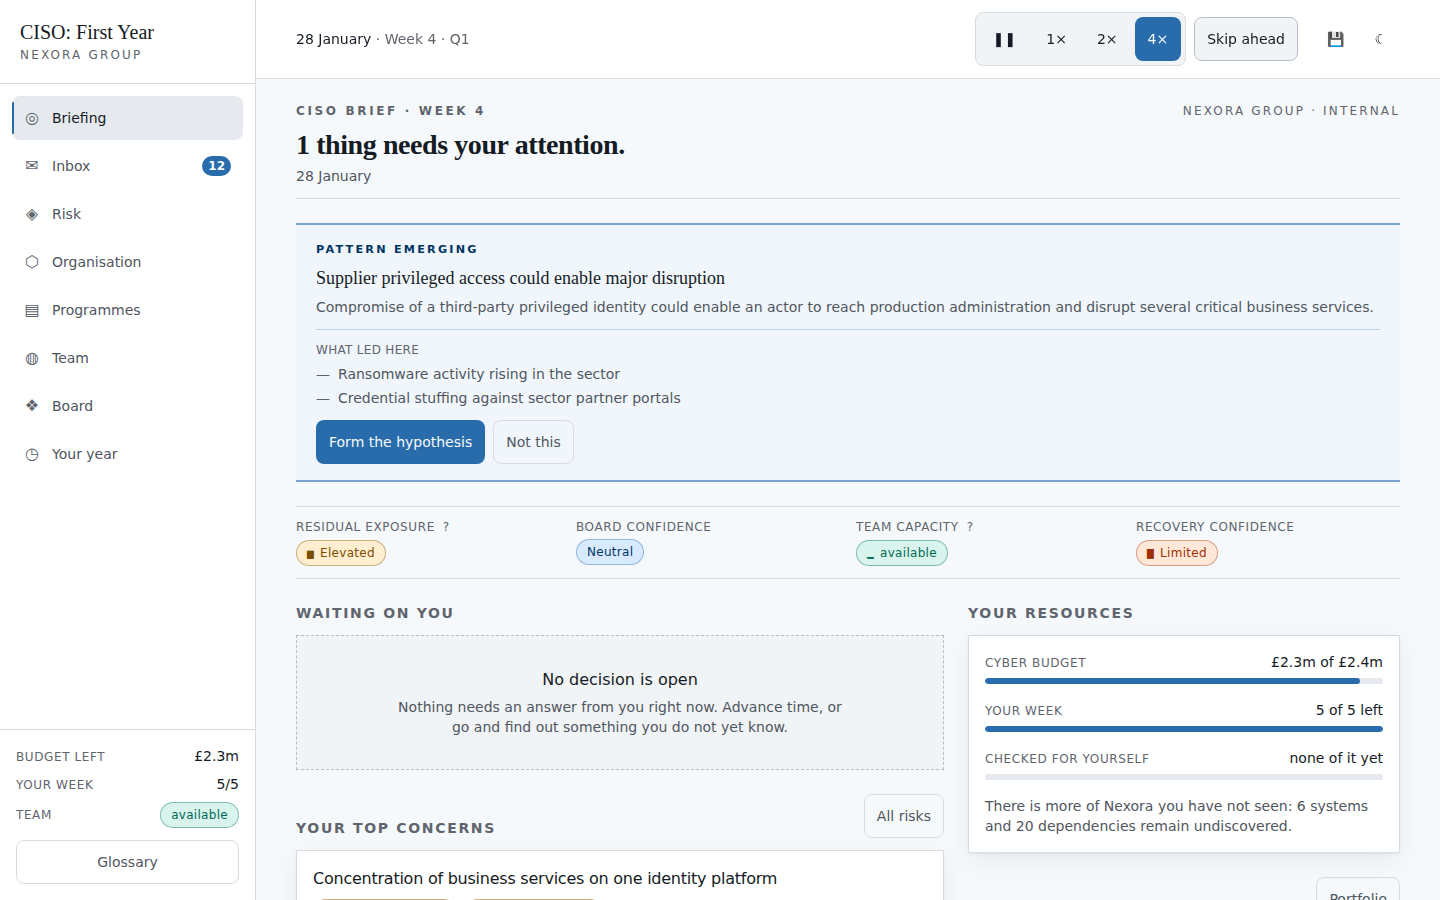
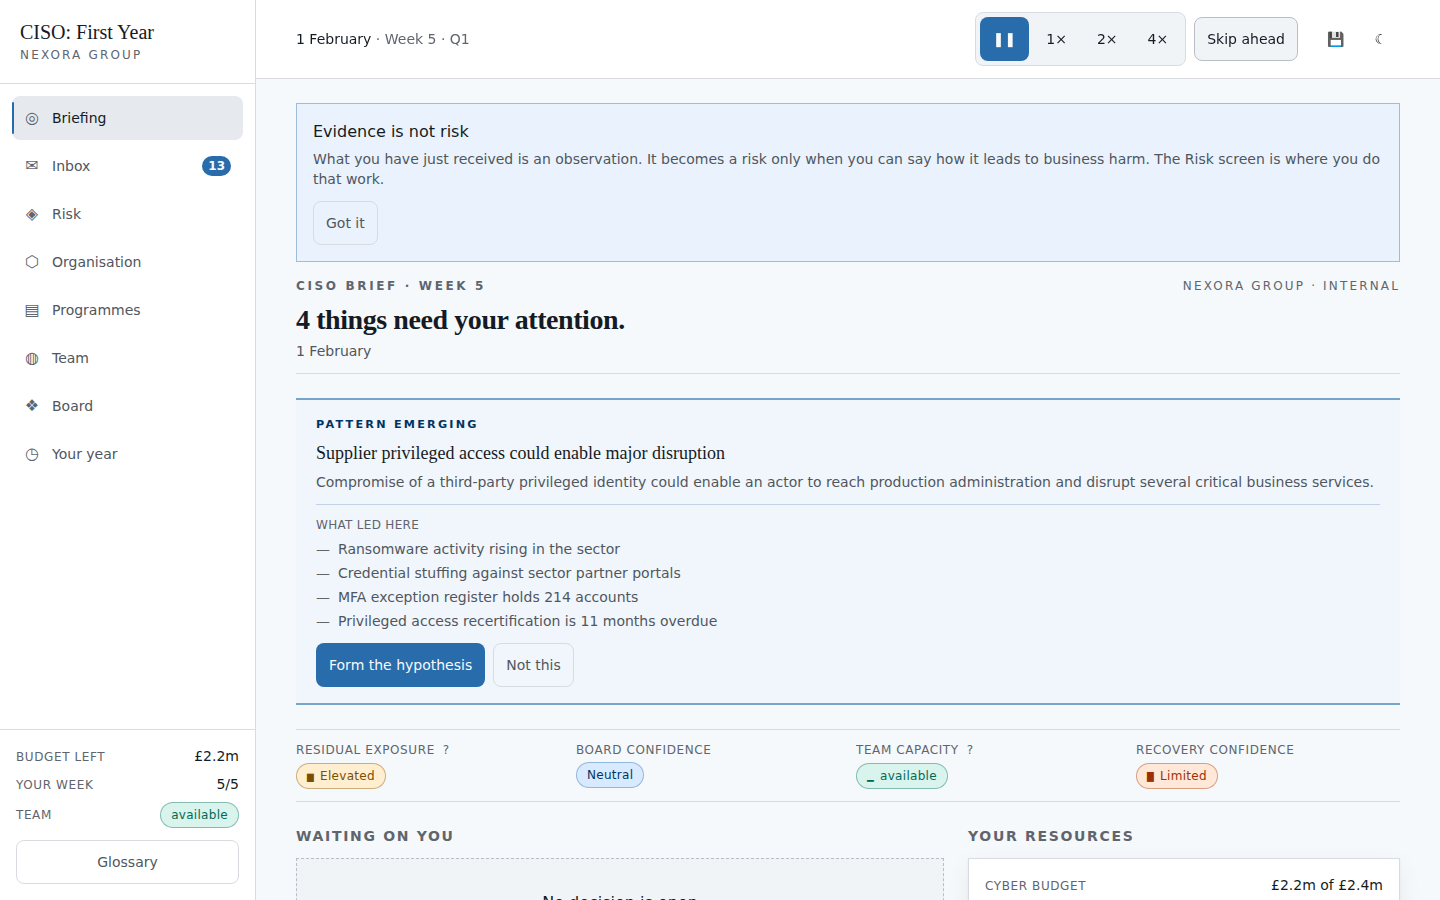
Photograph the board paper from an engine-prepared save
The guide's board-paper shot drove a quarter of play through the interface
and ran out of polls before day 91. A tsx script now plays a light, engaged
year in the engine to a named stopping point and prints the save; the browser
test loads it from the Continue list. 07-pattern and 08-board regenerated;
the board pack now shows raised risks rather than an empty paper.

Claude-Session: https://claude.ai/code/session_01QQ5khq6U7faXndHvyfrAxx

diff --git a/tests/e2e/guide-shots.spec.ts b/tests/e2e/guide-shots.spec.ts
@@ -1,5 +1,6 @@
 import { expect, test, type Page } from '@playwright/test'
 import { goTo, startCampaign } from './helpers'
+import { openPreparedCampaign, prepareCampaign } from './prepared'
 
 /**
  * The pictures in docs/PLAYER_GUIDE.md.
@@ -131,75 +132,34 @@ test.describe('player guide', () => {
   })
 
   /**
-   * The slow one. Reaching the first board paper means covering a quarter
-   * through the interface, and neither stepping event by event nor running the
-   * in-game clock has proved quick or reliable about it. If this fails, the
-   * committed picture is still current — re-run it alone, or leave it.
+   * A pattern offer and the first board paper, from campaigns the engine
+   * prepared. This used to drive a quarter of play through the interface at
+   * 4x and poll for the board paper; measured, it ran out of polls before the
+   * clock reached day 91 on more runs than not, even at 2,200 polls and
+   * fifteen minutes, while the engine reaches the same day instantly. The
+   * screens photographed are still the real ones, loaded from a real save.
    */
   test('a pattern offer and the quarterly board paper', async ({ page }) => {
-    test.setTimeout(600_000)
-    await startCampaign(page, SEED)
+    test.setTimeout(180_000)
 
-    // Reaching the first board paper means covering a quarter. Stepping it
-    // event by event costs one round trip per stop and took twenty minutes;
-    // the game's own 4x clock covers the same ground while this polls, and
-    // only stops for the things that pause it.
-    await page.getByRole('button', { name: '4×' }).first().click()
-    let sawPattern = false
+    // A campaign far enough in that the game has spotted a pattern.
+    const patterned = prepareCampaign(SEED, 'pattern')
+    await openPreparedCampaign(page, patterned)
+    await dismissNote(page)
+    const offer = page.getByRole('button', { name: 'Form the hypothesis' }).first()
+    await expect(offer, 'no pattern was on offer in the prepared campaign').toBeVisible()
+    await shot(page, '07-pattern')
 
-    for (let i = 0; i < 900; i += 1) {
-      await page.waitForTimeout(200)
-      await dismissNote(page)
-
-      // Time pauses itself for anything worth stopping for, not only for
-      // decisions, so the clock has to be restarted each time or the poll
-      // loop spins against a stopped world.
-      const resume = page.getByRole('button', { name: 'Resume time' }).first()
-      if (await resume.isVisible().catch(() => false)) {
-        await resume.click().catch(() => undefined)
-        await page.getByRole('button', { name: '4×' }).first().click().catch(() => undefined)
-      }
-
-      if (!sawPattern) {
-        const offer = page.getByRole('button', { name: 'Form the hypothesis' }).first()
-        if (await offer.isVisible().catch(() => false)) {
-          await shot(page, '07-pattern')
-          sawPattern = true
-          if (!(await offer.isDisabled())) await offer.click()
-        }
-      }
-
-      if (await page.getByText(/board paper is due/i).first().isVisible().catch(() => false)) {
-        await page.getByRole('button', { name: 'Prepare it' }).first().click()
-        await page.getByRole('button', { name: /Prepare the Q\d board paper/ }).first().click()
-        await expect(page.getByRole('dialog')).toBeVisible()
-        await page.waitForTimeout(250)
-        await shot(page, '08-board')
-        expect(sawPattern, 'no pattern was offered before the board paper').toBe(true)
-        return
-      }
-
-      // The clock pauses for a decision; answer it and let time run again.
-      const decide = page.getByRole('button', { name: /^Decide$/ }).first()
-      if (await decide.isVisible().catch(() => false)) {
-        await decide.click()
-        await page.getByRole('radio').first().check()
-        const why = page.getByRole('button', { name: /Record why first/ }).first()
-        if (await why.isVisible().catch(() => false)) {
-          await page.getByRole('button', { name: 'More evidence is required' }).first().click()
-        }
-        const commit = page.getByRole('button', { name: /Commit to this/ }).first()
-        if (await commit.isVisible().catch(() => false)) await commit.click()
-        else await page.keyboard.press('Escape')
-        await page.getByRole('button', { name: '4×' }).first().click().catch(() => undefined)
-      }
-    }
-    // Measured: raising the cap to 2,200 polls and the timeout to fifteen
-    // minutes did not reach it either, while the engine reaches board papers
-    // on days 91, 182 and 273 of every campaign. The mechanic is fine and
-    // this loop is not; 08-board goes stale until somebody drives the clock
-    // a better way. See docs/FINDINGS.md.
-    throw new Error('never reached a board paper')
+    // And the same world at the end of the first quarter.
+    const boardDue = prepareCampaign(SEED, 'board')
+    await openPreparedCampaign(page, boardDue)
+    await dismissNote(page)
+    await expect(page.getByText(/board paper is due/i).first()).toBeVisible()
+    await page.getByRole('button', { name: 'Prepare it' }).first().click()
+    await page.getByRole('button', { name: /Prepare the Q\d board paper/ }).first().click()
+    await expect(page.getByRole('dialog')).toBeVisible()
+    await page.waitForTimeout(250)
+    await shot(page, '08-board')
   })
 
   test('an incident, and the closing review', async ({ page }) => {

diff --git a/scripts/prepare-campaign.ts b/scripts/prepare-campaign.ts
@@ -1,0 +1,69 @@
+/**
+ * Prints a saved campaign, played by the engine up to a stopping point, as
+ * the JSON record the game keeps in IndexedDB.
+ *
+ *   pnpm tsx scripts/prepare-campaign.ts <seed> <pattern|board|day:N> [difficulty]
+ *
+ * For screens that only exist months into a year. The guide's board-paper
+ * picture used to be reached by driving a quarter of play through the
+ * interface at 4x, which ran out of polls before the clock reached day 91 on
+ * more runs than not; the browser test now loads this instead. It lives here
+ * rather than in the browser test because Playwright loads modules as native
+ * ESM, and the campaign's JSON imports are written for Vite and tsx.
+ */
+import { buildContentIndex } from '../src/game/engine/content-index'
+import { applyAction, newGame, runDays } from '../src/game/engine/orchestrator'
+import { nexoraContent } from '../src/content/nexora'
+import { patternSuggestions } from '../src/store/selectors'
+import { SAVE_SCHEMA_VERSION } from '../src/game/types'
+import type { Difficulty, GameState } from '../src/game/types'
+
+const index = buildContentIndex(nexoraContent)
+const [, , seed = 'prepared', stop = 'board', difficulty = 'ciso'] = process.argv
+
+const until = (state: GameState): boolean => {
+  if (stop === 'pattern') return state.currentDay > 30 && patternSuggestions(state, index).length > 0
+  if (stop === 'board') return state.reviews.pendingQuarter !== undefined
+  if (stop.startsWith('day:')) return state.currentDay >= Number(stop.slice(4))
+  throw new Error(`unknown stopping point: ${stop}`)
+}
+
+const state = newGame(index, { seed, difficulty: difficulty as Difficulty })
+// A light, engaged year: answer what is asked, form what the game notices,
+// commission a couple of enquiries, leave the rest.
+const enquiries = ['inv-service-review', 'inv-access-review']
+let next = 0
+for (let day = 0; day < 364 && !until(state); day += 1) {
+  for (const id of [...state.decisions.openIds]) {
+    const def = index.decision.get(state.decisions.decisions[id]!.defId)!
+    const tags = def.rationaleTagIds?.slice(0, 1) ?? ['rat-more-evidence']
+    for (const option of def.options) {
+      if (applyAction(state, index, { type: 'resolveDecision', decisionId: id, optionId: option.id, rationaleTagIds: tags }).ok) break
+    }
+  }
+  // Take what the game notices, unless the point is to photograph the offer.
+  const offered = stop === 'pattern' ? undefined : patternSuggestions(state, index)[0]
+  if (offered) {
+    const made = applyAction(state, index, {
+      type: 'createHypothesis', templateId: offered.templateId, evidenceIds: offered.evidence.map((e) => e.id),
+    })
+    if (made.ok) applyAction(state, index, { type: 'convertHypothesis', hypothesisId: Object.keys(state.risks.hypotheses).at(-1)! })
+  }
+  if (next < enquiries.length && state.team.assignments.every((a) => a.status !== 'running')) {
+    const leader = index.content.leaders[next % index.content.leaders.length]!.id
+    if (applyAction(state, index, { type: 'startInvestigation', investigationId: enquiries[next]!, leaderId: leader }).ok) next += 1
+  }
+  runDays(state, index, 1)
+}
+if (!until(state)) throw new Error(`never reached "${stop}" in a year`)
+
+process.stdout.write(
+  JSON.stringify({
+    slot: `campaign:${state.gameId}`,
+    schemaVersion: SAVE_SCHEMA_VERSION,
+    savedAtIso: new Date().toISOString(),
+    savedByPlayer: false,
+    campaignTitle: index.content.meta.title,
+    state,
+  }),
+)

diff --git a/tests/e2e/prepared.ts b/tests/e2e/prepared.ts
@@ -1,0 +1,40 @@
+import { execFileSync } from 'node:child_process'
+import { expect, type Page } from '@playwright/test'
+
+/**
+ * A campaign played by the engine and loaded into the browser as the player's
+ * own save, for screens that only exist months into a year. The playing is
+ * done by `scripts/prepare-campaign.ts`; see there for why it is not done here.
+ */
+export type Stop = 'pattern' | 'board' | `day:${number}`
+
+export function prepareCampaign(seed: string, stop: Stop, difficulty = 'ciso'): unknown {
+  const out = execFileSync('node_modules/.bin/tsx', ['scripts/prepare-campaign.ts', seed, stop, difficulty], {
+    encoding: 'utf8',
+    maxBuffer: 64 * 1024 * 1024,
+  })
+  return JSON.parse(out)
+}
+
+/** Put a prepared campaign in the browser's save store and open it from the start screen. */
+export async function openPreparedCampaign(page: Page, save: unknown): Promise<void> {
+  await page.goto('/')
+  await expect(page.getByRole('heading', { name: 'CISO: First Year' })).toBeVisible()
+  await page.evaluate(async (record) => {
+    const db: IDBDatabase = await new Promise((resolve, reject) => {
+      const open = indexedDB.open('ciso-first-year')
+      open.onsuccess = () => resolve(open.result)
+      open.onerror = () => reject(open.error)
+    })
+    await new Promise<void>((resolve, reject) => {
+      const tx = db.transaction('saves', 'readwrite')
+      tx.objectStore('saves').put(record)
+      tx.oncomplete = () => resolve()
+      tx.onerror = () => reject(tx.error)
+    })
+    db.close()
+  }, save)
+  await page.reload()
+  await page.getByRole('button', { name: /Day \d+/ }).first().click()
+  await expect(page.getByRole('navigation', { name: 'Primary' })).toBeVisible()
+}

diff --git a/docs/FINDINGS.md b/docs/FINDINGS.md
@@ -209,17 +209,23 @@ fault.
   not have to discover is a question about what the game is teaching, so it is
   recorded under Known weaknesses rather than tuned.
 
-- **Open: the guide's board-paper picture cannot be regenerated.** The
-  screenshot harness drives a quarter of play through the interface at 4x to
-  reach the first board paper, and it no longer gets there: measured, neither
-  raising its poll cap to 2,200 nor its timeout to fifteen minutes reaches it,
-  and the loop ends on "never reached a board paper". The mechanic itself is
-  healthy — the engine reaches board papers on days 91, 182 and 273 of every
-  campaign, with two to four material items on each — so this is the loop, not
-  the game. `docs/images/08-board.png` therefore predates the materiality
-  change described below and may show one item more than a board pack would
-  now. Every other picture in the guide is current. Left open because the fix
-  is a better way to drive the clock from a browser, not a change to the game.
+- **The guide's board-paper picture could not be regenerated.** The
+  screenshot harness drove a quarter of play through the interface at 4x to
+  reach the first board paper, and it no longer got there: neither raising its
+  poll cap to 2,200 nor its timeout to fifteen minutes reached day 91, while the
+  engine reaches board papers on days 91, 182 and 273 of every campaign. The
+  loop, not the game. Closed by not driving the clock from a browser at all:
+  `scripts/prepare-campaign.ts` plays a light, engaged year in the engine up to
+  a named stopping point (a pattern on offer, a board paper due, a given day)
+  and prints the save record, and `tests/e2e/prepared.ts` puts it in the
+  browser's save store and opens it from the Continue list. The screens
+  photographed are the real ones loaded from a real save. The pattern and board
+  test now takes 2.5 seconds instead of timing out. The first version of the
+  policy never formed a pattern, so the board paper it photographed read "You
+  have nothing to report"; the policy now forms what the game notices, and the
+  picture shows four raised risks on the agenda. The preparation runs outside
+  Playwright because Playwright loads modules as native ESM and the campaign's
+  JSON imports are written for Vite and tsx.
 
 - **Five risk bands were authored and two were ever used.** One cut list at
   0.16 / 0.34 / 0.55 / 0.75 served three different quantities, and it was cut

diff --git a/docs/PLAYER_GUIDE.md b/docs/PLAYER_GUIDE.md
@@ -262,11 +262,13 @@ Tick it. Honest uncertainty, communicated well, builds more credibility than
 confidence you cannot support. That is true in the game and it is true in the
 job.
 
-The pack in the picture above is empty, which is what an early one looks like
-if you have not yet assessed a risk, had an assumption fail or run an incident.
-The game does not pretend otherwise — it says so, and points out that having
-nothing to report is itself something the board may ask about. Raise a risk or
-two and the same dialog fills with items to choose between.
+The pack in the picture holds the four risks this player raised during the
+quarter. The line above them counts the ones still *emerging*: the board hears
+only about risks you have raised, and you raise an emerging one from the Risk
+screen. An early pack can also be empty, if you have not yet assessed a risk,
+had an assumption fail or run an incident. The game does not pretend otherwise
+— it says so, and points out that having nothing to report is itself something
+the board may ask about.
 
 ---
 
